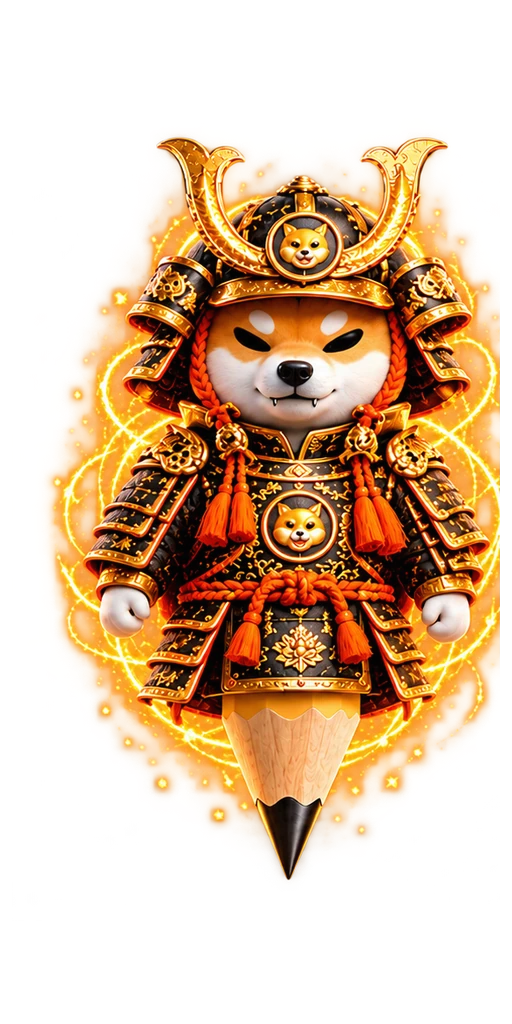
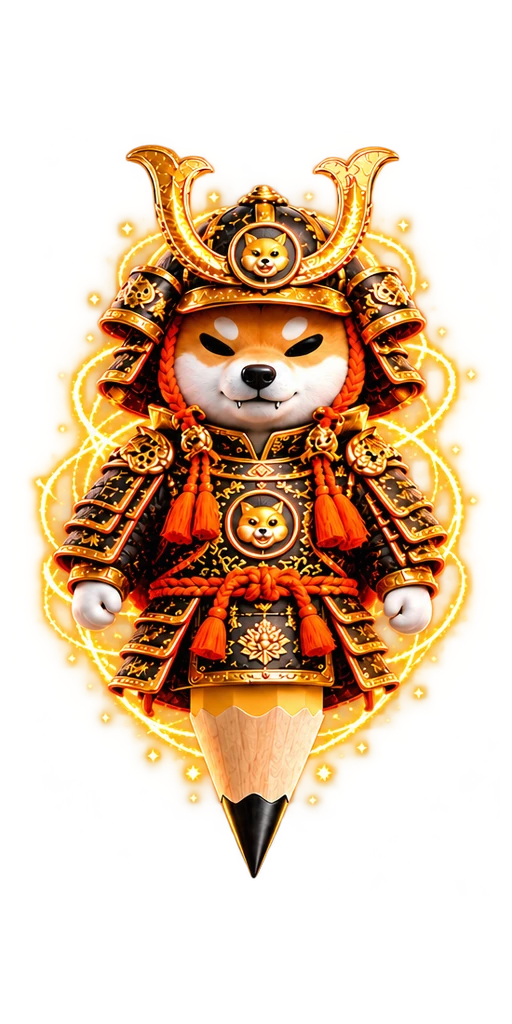
Clean pack backgrounds and isolate character aura crops

diff --git a/app/app.css b/app/app.css
@@ -159,8 +159,8 @@ html,body{max-width:100%;overflow-x:clip}body{min-width:320px}main,section,artic
 @media(max-width:420px){.community-pack-tabs button{font-size:10px}.community-pack-tabs button>span{width:5px;height:5px}}
 
 /* Single collectible pack, with one selected character at a time. */
-.single-pack-showcase{display:grid;grid-template-columns:minmax(0,.9fr) minmax(0,1.1fr);gap:clamp(24px,5vw,60px);padding:28px;border:1px solid #604477;border-radius:20px;background:linear-gradient(135deg,#20142c,#130e1e);align-items:start}
-.single-pack-display{min-width:0;display:grid;justify-items:center;gap:18px}.community-foil-pack{position:relative;isolation:isolate;display:flex;flex-direction:column;width:min(100%,350px);margin:0;overflow:hidden;border:1px solid var(--pack-colour);border-radius:10px;background:linear-gradient(110deg,#ffffff09,transparent 28%,#ffffff09 50%,transparent 75%),radial-gradient(ellipse at center,color-mix(in srgb,var(--pack-colour) 12%,#21152f),#100b18 75%);box-shadow:5px 9px 0 #0005,0 18px 40px #0005,inset 1px 0 #ffffff33,inset -3px 0 #ffffff20}
+.single-pack-showcase{display:grid;grid-template-columns:minmax(0,.9fr) minmax(0,1.1fr);gap:clamp(24px,5vw,60px);padding:28px;border:1px solid #604477;border-radius:20px;background:#171021;align-items:start}
+.single-pack-display{min-width:0;display:grid;justify-items:center;gap:18px}.community-foil-pack{position:relative;isolation:isolate;display:flex;flex-direction:column;width:min(100%,350px);margin:0;overflow:hidden;border:1px solid var(--pack-colour);border-radius:10px;background:#140f20;box-shadow:5px 9px 0 #0005,0 18px 40px #0005,inset 1px 0 #ffffff33,inset -3px 0 #ffffff20}
 .pack-seal{height:15px;flex:none;background:repeating-linear-gradient(90deg,#ffffff15 0 2px,#0003 2px 5px),linear-gradient(0deg,#0007,color-mix(in srgb,var(--pack-colour) 25%,#26172f));border-block:1px solid #ffffff15}
 .foil-pack-heading{display:grid;justify-items:center;gap:7px;padding:20px 15px 0;text-align:center}.foil-pack-heading>span:first-child{font:700 11px Outfit,sans-serif;letter-spacing:.16em;color:white}.foil-pack-heading small{font:7px 'DM Mono',monospace;color:#baa8c8;letter-spacing:.1em}.foil-pack-heading>strong{font:800 clamp(34px,4vw,48px)/1 Outfit,sans-serif;letter-spacing:.05em;color:var(--pack-colour);text-shadow:0 2px 16px #0008}.foil-pack-heading>span:last-child{font:9px 'DM Mono',monospace;letter-spacing:.18em;color:#eee3f4}
 .foil-pack-art{height:380px;min-width:0;padding:8px 12px 0}.foil-pack-art img{display:block;width:100%;height:100%;object-fit:contain}.community-foil-pack figcaption{display:grid;justify-items:center;gap:8px;margin:0 18px 18px;padding:14px 8px;border-top:1px solid #ffffff25;text-align:center}.community-foil-pack figcaption>span{color:var(--pack-colour);font:8px 'DM Mono',monospace;letter-spacing:.12em}.community-foil-pack figcaption strong{font:650 18px/1.25 Outfit,sans-serif;color:#fff}.community-foil-pack figcaption small{font:7px/1.5 'DM Mono',monospace;letter-spacing:.05em;color:#c6b7cf}

diff --git a/app/community-packs.jsx b/app/community-packs.jsx
@@ -18,7 +18,7 @@ export default function CommunityPacks() {
         <figure className="community-foil-pack">
           <div className="pack-seal" aria-hidden="true"/>
           <div className="foil-pack-heading"><span>THE ITTIES</span><small>COMMUNITY SERIES {pack.series}</small><strong>{pack.name}</strong><span>EXPANSION PACK</span></div>
-          <div className="foil-pack-art"><img key={`${pack.id}-${look.id}`} src={`/assets/community-packs/${pack.id}/${look.id}.webp?v=single-pack1`} alt={`${pack.name} pack: one ${pack.face} pencil character wearing ${look.attire}, ${look.headwear}, with ${look.aura}`} width="512" height="1024"/></div>
+          <div className="foil-pack-art"><img key={`${pack.id}-${look.id}`} src={`/assets/community-packs/${pack.id}/${look.id}.webp?v=clean-pack2`} alt={`${pack.name} pack: one ${pack.face} pencil character wearing ${look.attire}, ${look.headwear}, with ${look.aura}`} width="512" height="1024"/></div>
           <figcaption><span>LOOK {String(lookIndex+1).padStart(2,"0")} / 03</span><strong>{look.name}</strong><small>3 SIGNATURE LOOKS · {pack.name} COLLECTION</small></figcaption>
           <div className="pack-seal" aria-hidden="true"/>
         </figure>

diff --git a/scripts/package-community-art.py b/scripts/package-community-art.py
@@ -16,12 +16,24 @@ for pack,ids in looks.items():
  source=source_dir/f'{pack}-source.png'
  if not source.exists():continue
  im=Image.open(source).convert('RGBA');w,h=im.size
- # Each final lineup has three equally spaced characters.
- cuts=[0,round(w/3),round(w*2/3),w]
+ # Split in the clearest transparent gutter, not through a neighbouring aura.
+ alpha=im.getchannel('A')
+ def seam(ideal):
+  radius=round(w*.065)
+  def cost(x):
+   hist=alpha.crop((x-6,0,x+6,h)).histogram()
+   return sum(n*value*value for value,n in enumerate(hist)) + abs(x-ideal)
+  return min(range(max(7,ideal-radius),min(w-7,ideal+radius)),key=cost)
+ cuts=[0,seam(round(w/3)),seam(round(w*2/3)),w]
  target=root/f'public/assets/community-packs/{pack}';target.mkdir(parents=True,exist_ok=True)
  im.save(target/'lineup.webp',quality=88,method=5)
  for i,key in enumerate(ids):
-  item=im.crop((cuts[i],0,cuts[i+1],h));item.thumbnail((488,976),Image.Resampling.LANCZOS)
+  item=im.crop((cuts[i],0,cuts[i+1],h))
+  box=item.getchannel('A').point(lambda a:255 if a>12 else 0).getbbox()
+  if box:
+   box=(max(0,box[0]-18),max(0,box[1]-18),min(item.width,box[2]+18),min(item.height,box[3]+18))
+   item=item.crop(box)
+  item.thumbnail((488,976),Image.Resampling.LANCZOS)
   canvas=Image.new('RGBA',(512,1024));canvas.alpha_composite(item,((512-item.width)//2,(1024-item.height)//2));canvas.save(target/f'{key}.webp',quality=90,method=5)
 all_files=[root/f'public/assets/community-packs/{p}/{k}.webp' for p,ids in looks.items() for k in ids]
 if all(f.exists() for f in all_files):

diff --git a/docs/community-wardrobe-artwork.md b/docs/community-wardrobe-artwork.md
@@ -11,3 +11,5 @@ Each `lineup.webp` shows all three characters as a transparent character lineup.
 `package-community-art.py` copies the chosen generated source sheets into the local artwork directory, crops the three renders with their original alpha, and prepares the optimized assets plus a local contact sheet and download archive. It uses Pillow; no generated source PNGs or reference images are shipped in the web bundle.
 
 The public gallery displays one branded foil-pack presentation and one selected character at a time. Community buttons choose the pack; the three outfit buttons and previous/next controls switch its character and trait details. This is artwork browsing, not an on-chain pack opening.
+
+Background cleanup: the three source characters must have independent transparent gutters before cropping, so aura fragments from an adjacent look never appear at the edges of another pack. The pack wrapper uses a flat dark backing; character cutouts retain their own specified effects without a generated scene or fog backdrop.
